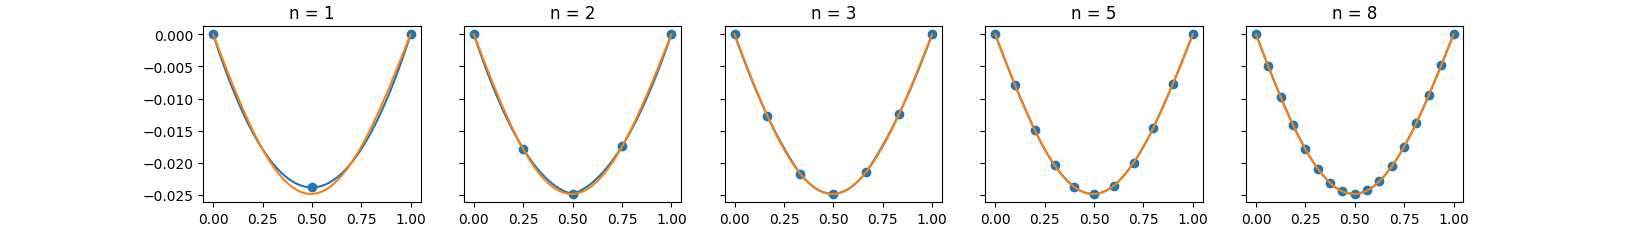
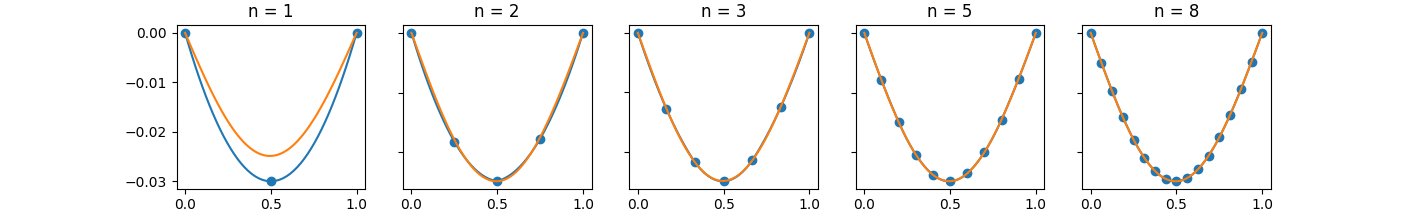
Change to simpson intg pic instead of precise one

diff --git a/Homework1/code/main.py b/Homework1/code/main.py
@@ -301,7 +301,7 @@ def evaluate():
     n_list = [1, 2, 3, 5, 8]
     fig, axs = plt.subplots(1, len(n_list))
     for idx, n in enumerate(n_list):
-        quadFEM = PiecewiseQuaderaticFEM(preciseIntg)
+        quadFEM = PiecewiseQuaderaticFEM(simpsonIntg)
         quadFEM.build_knots(n)
         quadFEM.solve(f, verbose=True)
 
